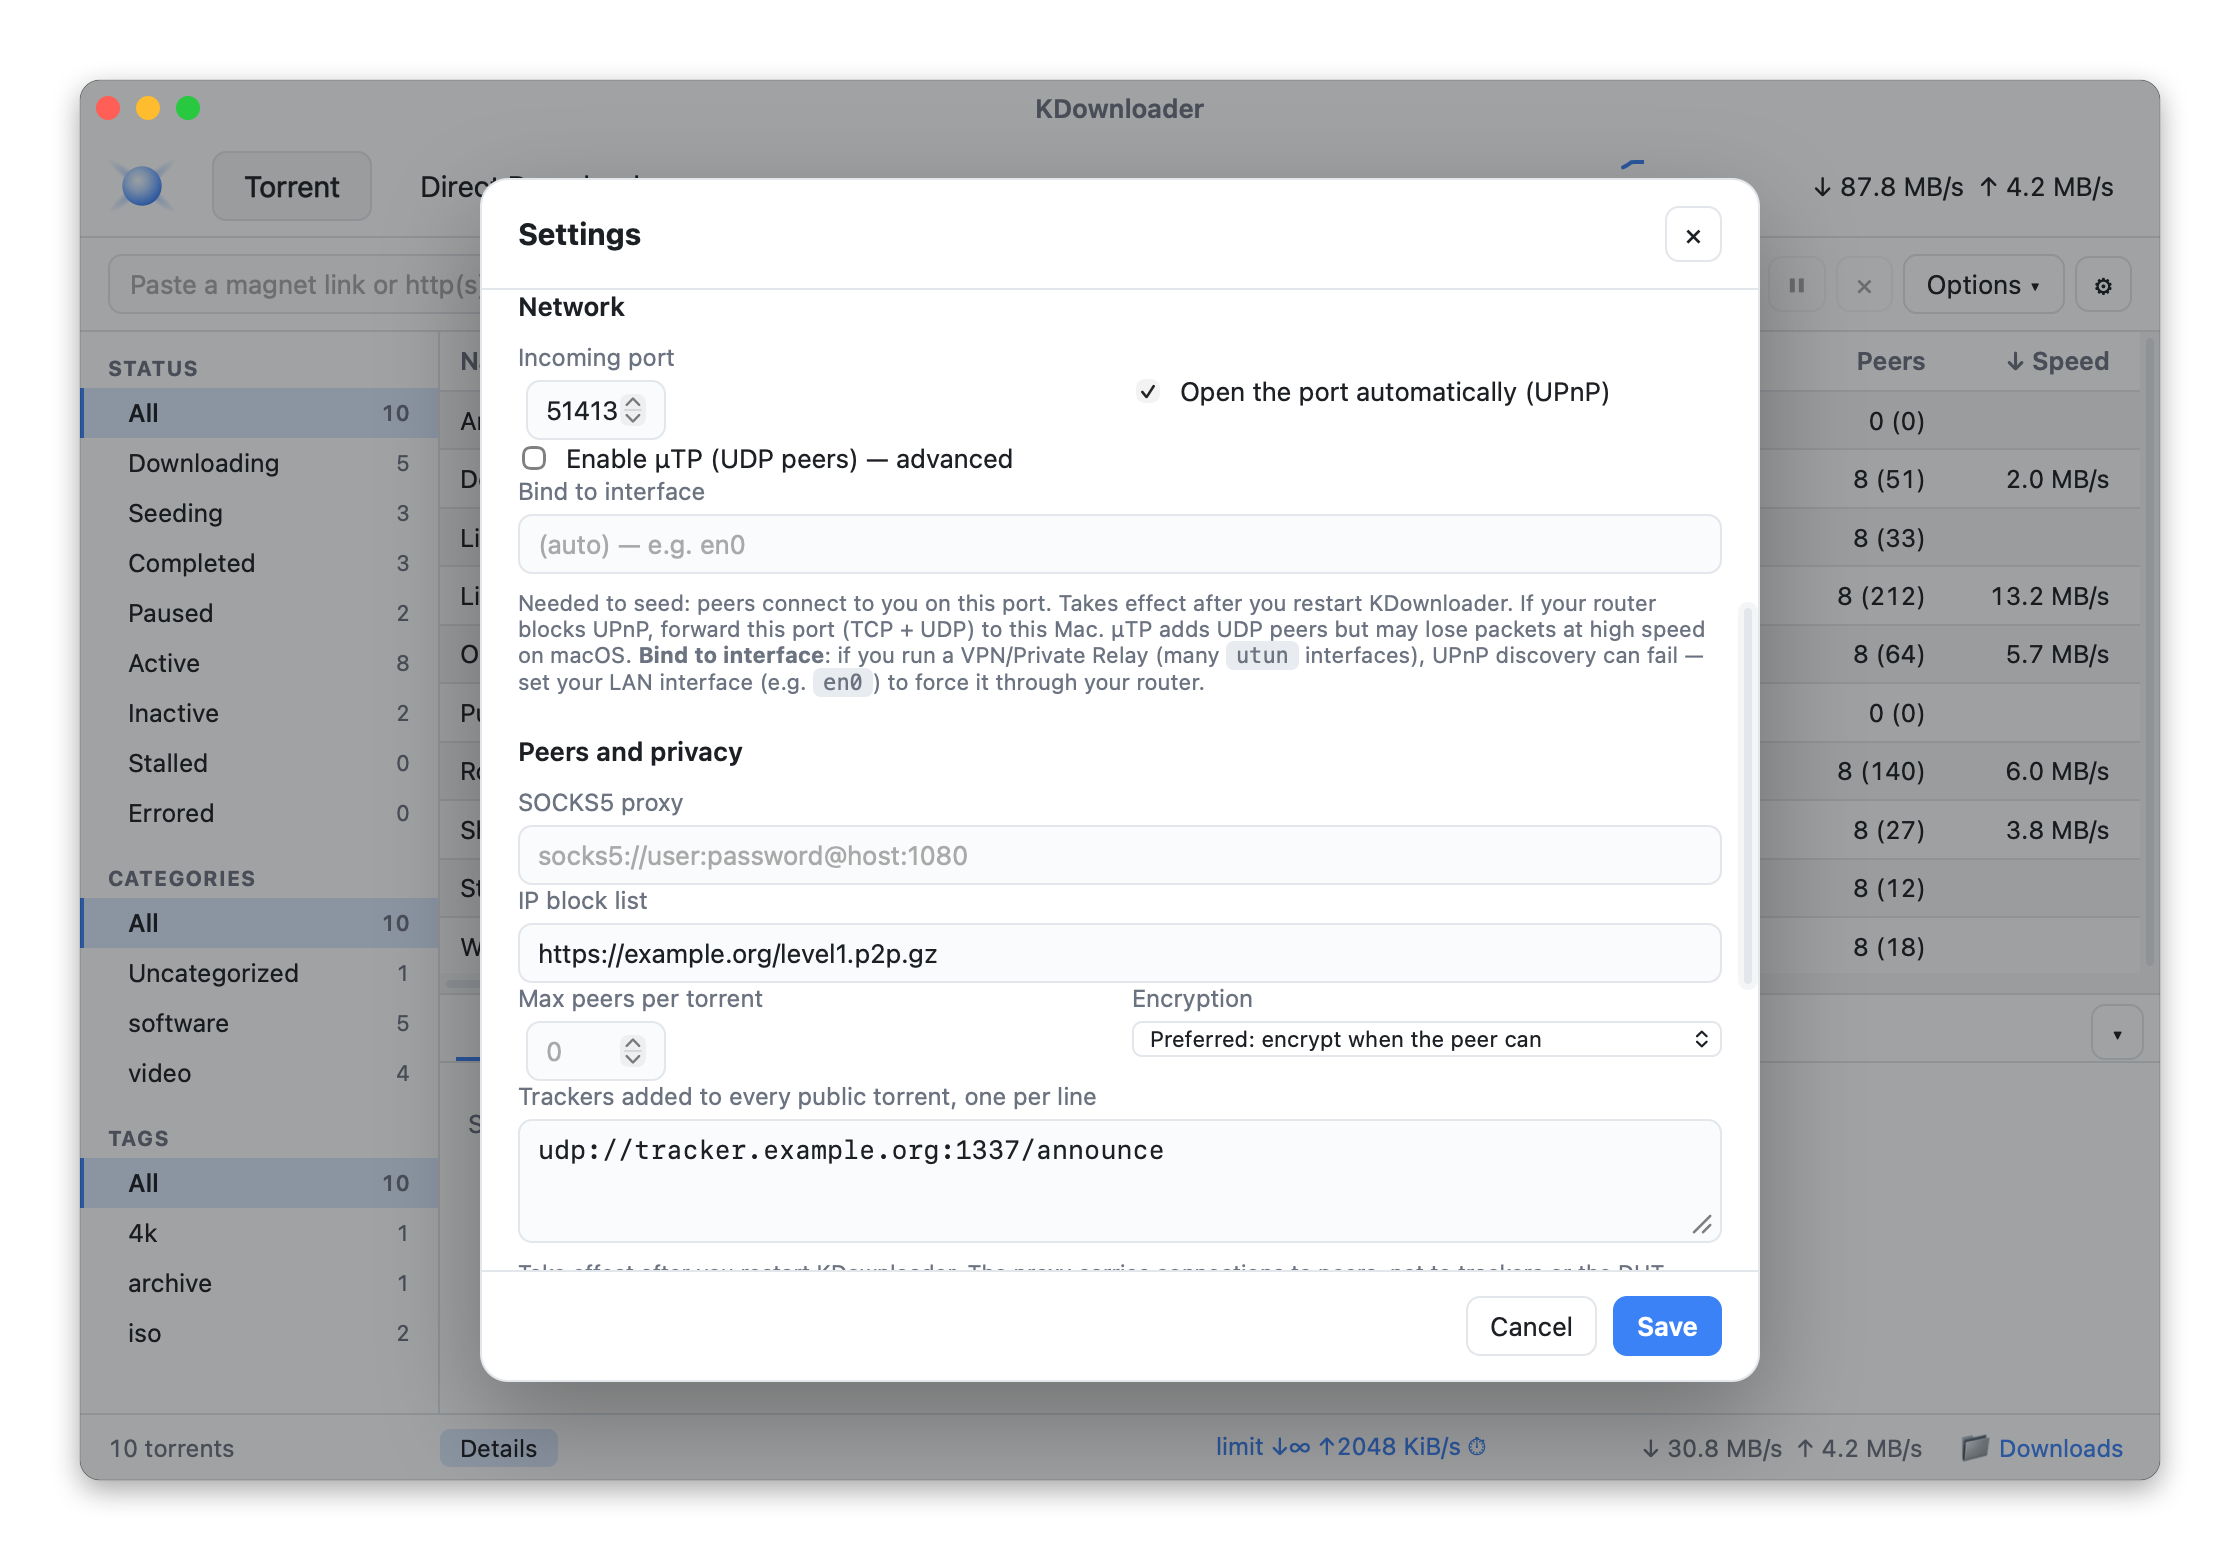
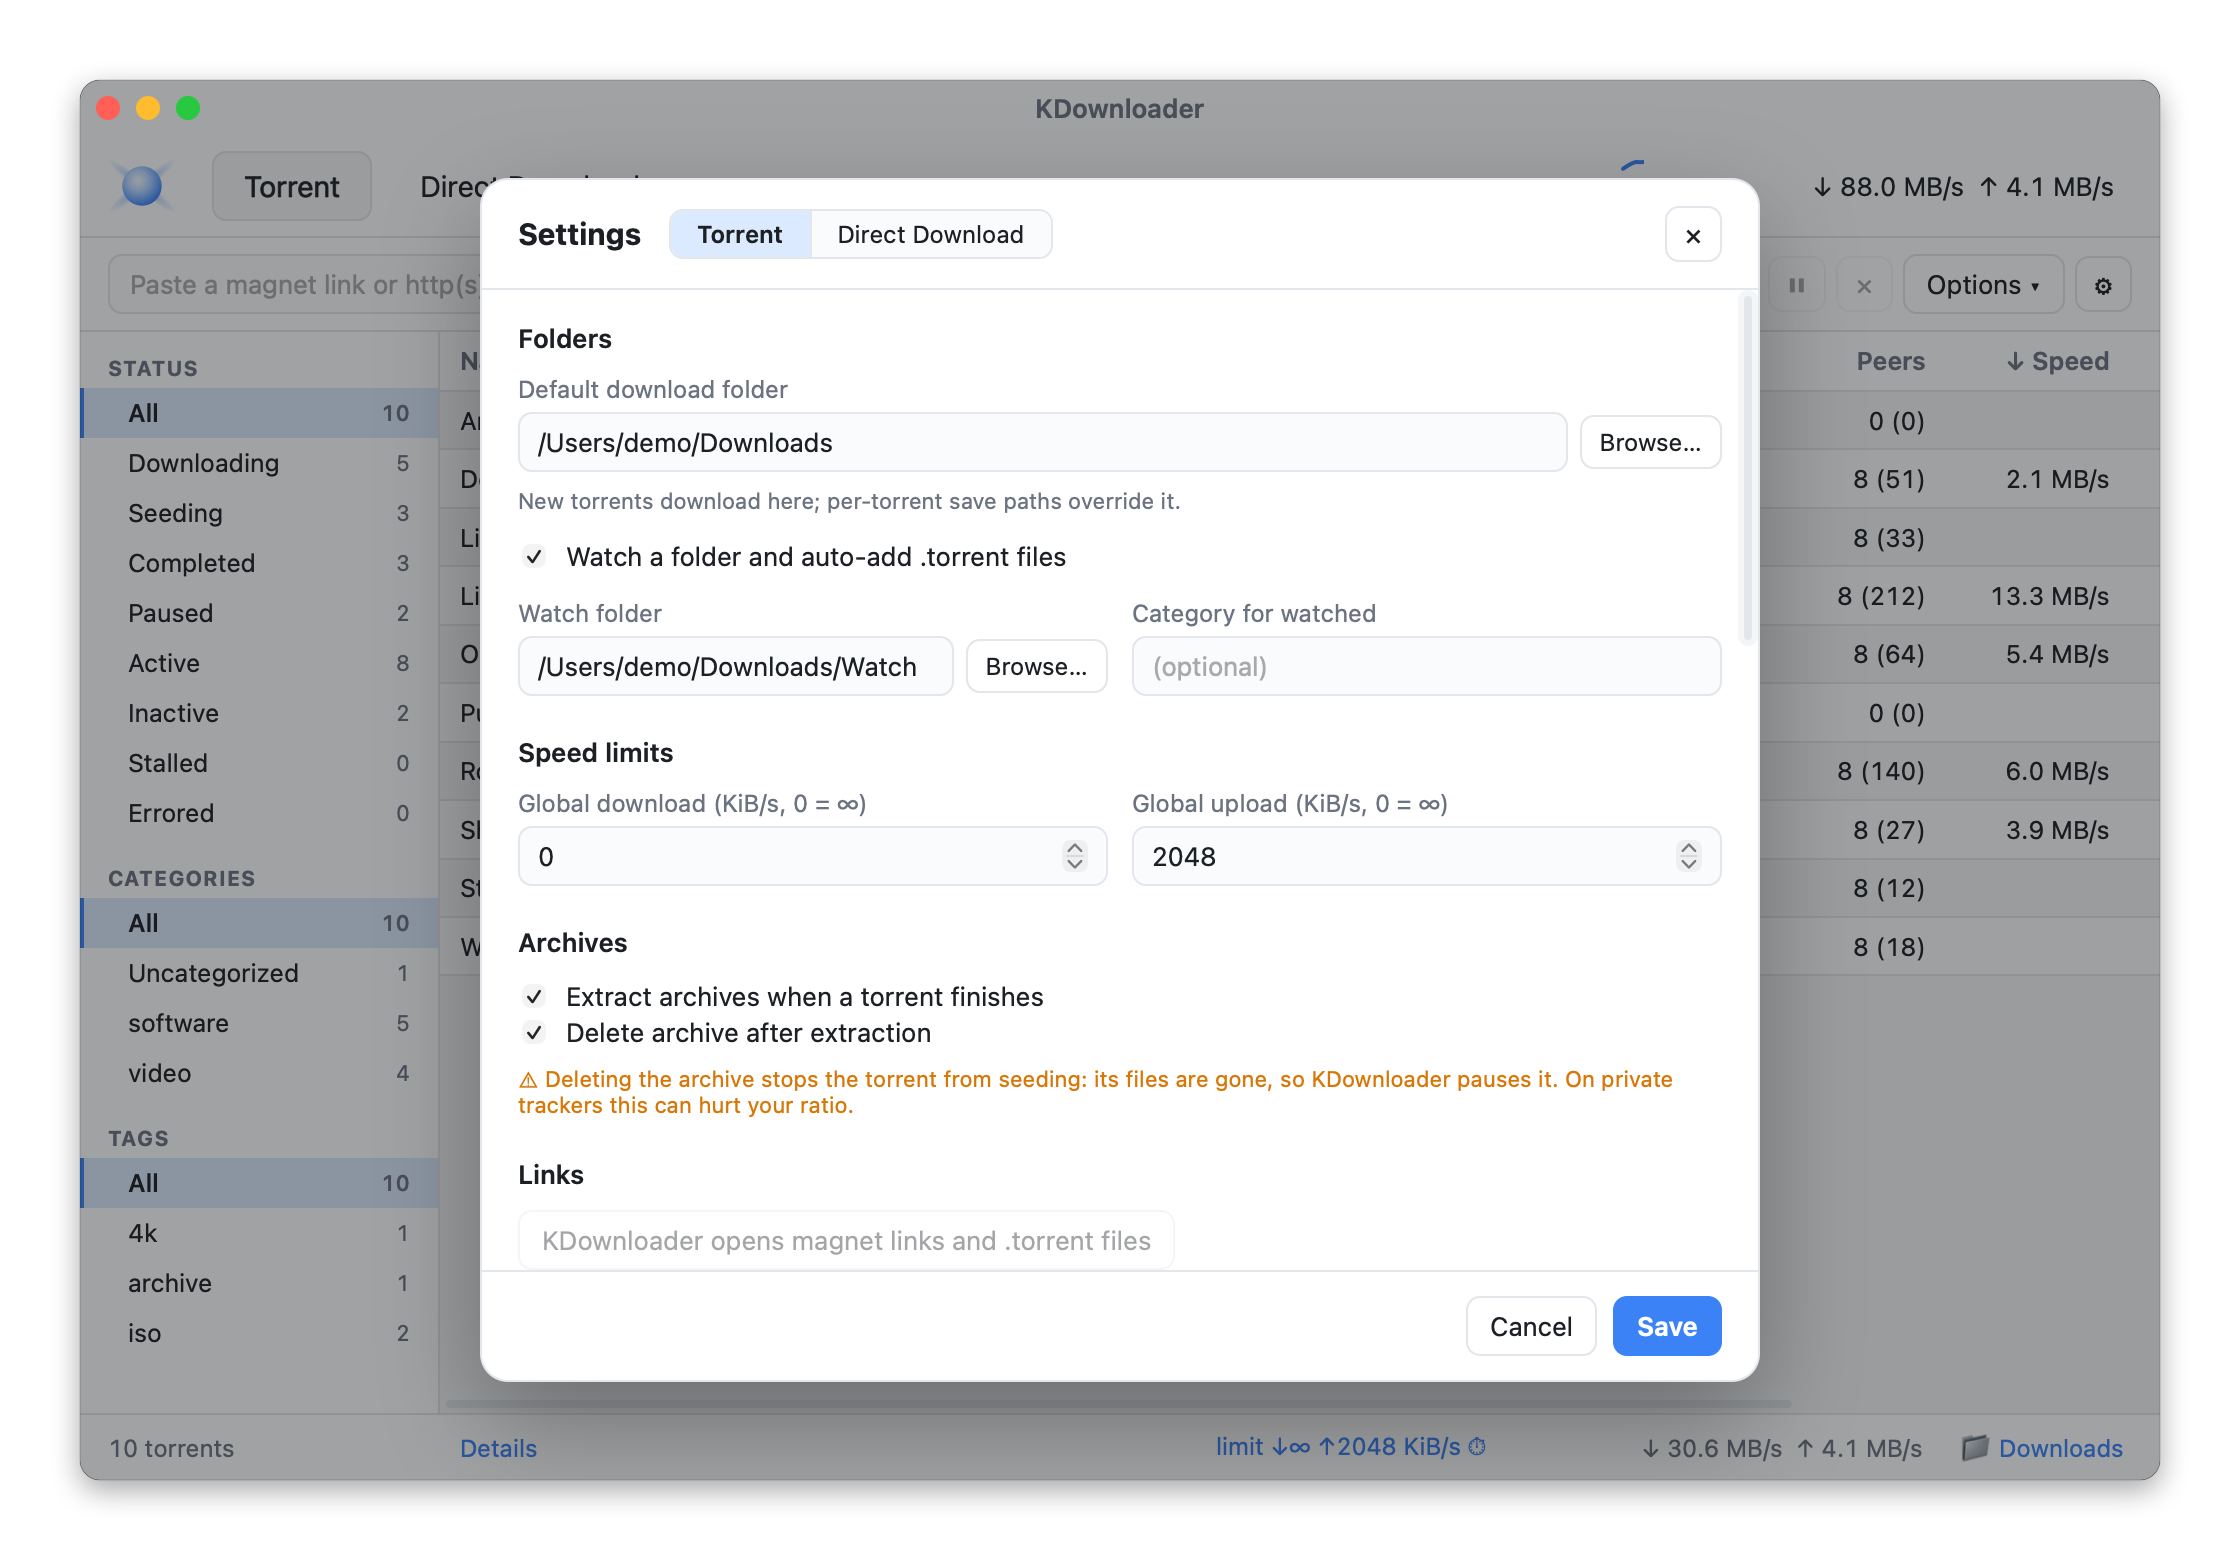
Show the tabbed Settings window in the README

diff --git a/README.md b/README.md
@@ -57,7 +57,7 @@ Free and open-source 🙂 — if you feel like it, buy me a few tokens:
   and binding to a network interface (useful with a VPN)
 - Logs show only the tracker host, since private-tracker URLs carry a passkey
 
-![KDownloader — torrent settings, network and privacy](docs/screenshot-settings-light.png)
+![KDownloader — Settings, with a tab for torrents and one for Direct Download, and the archive options](docs/screenshot-settings-light.png)
 
 ### Automation
 
